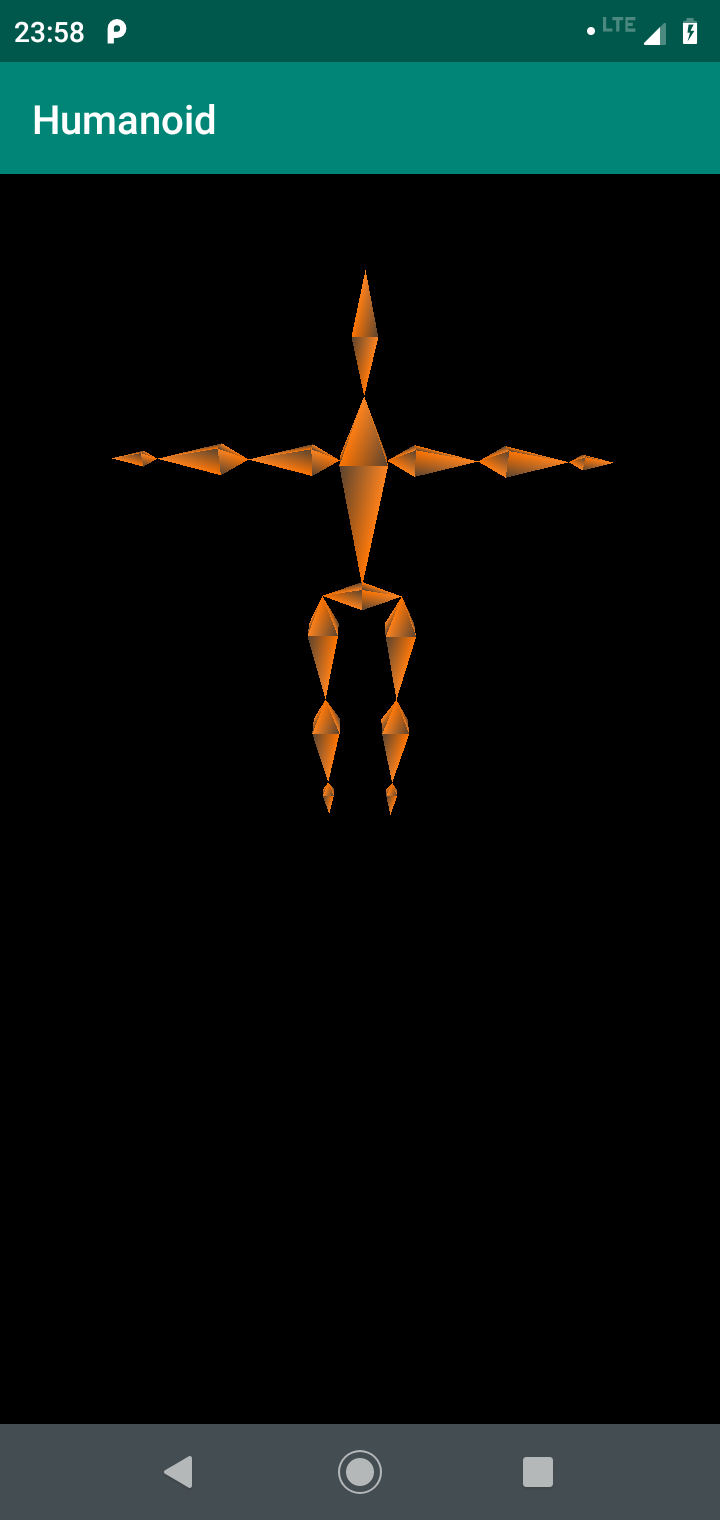
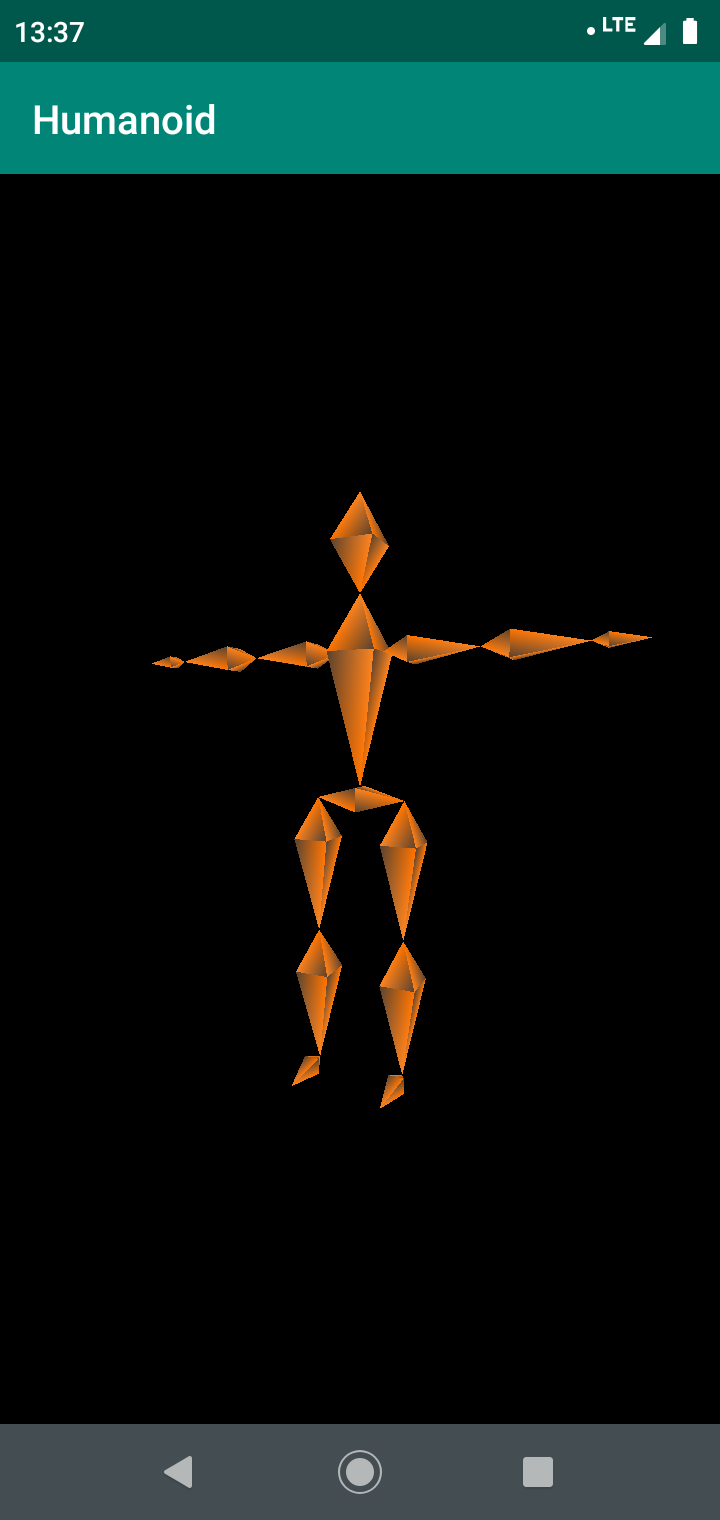
screenshot

diff --git a/app/src/main/java/pl/brainfuck/humanoid/canvas/mesh/Bone.java b/app/src/main/java/pl/brainfuck/humanoid/canvas/mesh/Bone.java
@@ -14,7 +14,7 @@ public class Bone {
     private Mesh meshLower;
     private Mesh meshUpper;
 
-    float thicknessRation = 0.13F;
+    float thicknessRatio = 0.13F;
     float thickness;
     float lengthPart;
     float lengthRemain;
@@ -23,6 +23,12 @@ public class Bone {
     float weight;
 
     Segment segment;
+
+    public void setThicknessRatio(float newThicknessRatio)
+    {
+        thicknessRatio = newThicknessRatio;
+        init();
+    }
 
     float colors[][] = new float[][]{
             {
@@ -76,18 +82,23 @@ public class Bone {
         };
     }
 
-    public Bone(Segment segment, float length, float weight) {
-        this.segment = segment;
-
-        thickness = length * thicknessRation;
+    private void init()
+    {
+        thickness = length * thicknessRatio;
         lengthPart = length * weight;
         lengthRemain = length * (1.0F - weight);
+
+        meshLower = new Mesh(getMeshCoords(0, lengthPart, thickness), getMeshOrder(), getMeshColors(meshLowerColorOrder));
+        meshUpper = new Mesh(getMeshCoords(length, lengthPart, thickness), getMeshOrder(), getMeshColors(meshUpperColorOrder));
+    }
+
+    public Bone(Segment segment, float length, float weight) {
+        this.segment = segment;
 
         this.length = length;
         this.weight = weight;
 
-        meshLower = new Mesh(getMeshCoords(0, lengthPart, thickness), getMeshOrder(), getMeshColors(meshLowerColorOrder));
-        meshUpper = new Mesh(getMeshCoords(length, lengthPart, thickness), getMeshOrder(), getMeshColors(meshUpperColorOrder));
+        init();
     }
 
     public void orient(HumanContext humanContext, float[] matrix) {

diff --git a/app/src/main/java/pl/brainfuck/humanoid/canvas/model/Skeleton.java b/app/src/main/java/pl/brainfuck/humanoid/canvas/model/Skeleton.java
@@ -23,7 +23,9 @@ public class Skeleton {
         Bone chest = new Bone(Segment.Chest, 0.60F, 0.7F);
 
         spine.insert(chest);
-        spine.insert(new Bone(Segment.Head, 0.30F, 0.5F));
+        Bone head = new Bone(Segment.Head, 0.30F, 0.5F);
+        head.setThicknessRatio(0.23F);
+        spine.insert(head);
 
         spine.setStartingPoint(new float[]{0.0F, 1.0F + pelvis.getThickness(), 0.0F});
         spine.setDirection(-90, new float[]{1, 0, 0});

diff --git a/app/src/main/java/pl/brainfuck/humanoid/engine/Engine.java b/app/src/main/java/pl/brainfuck/humanoid/engine/Engine.java
@@ -31,7 +31,7 @@ public class Engine {
                 // event update
                 humanContext.yaw += -(humanContext.previousY - y) / 3;
                 humanContext.yaw %= 360;
-                humanContext.pitch += (humanContext.previousX - x) / 3;
+                humanContext.pitch -= (humanContext.previousX - x) / 3;
                 humanContext.pitch %= 360;
                 break;
             case MotionEvent.ACTION_UP:
